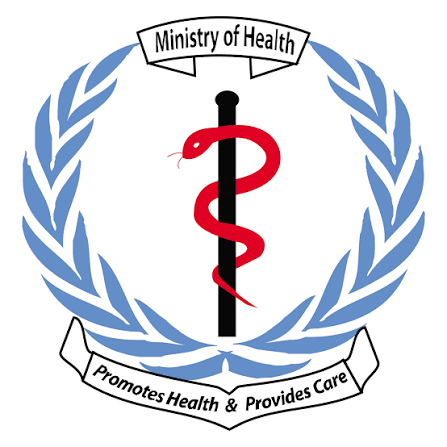
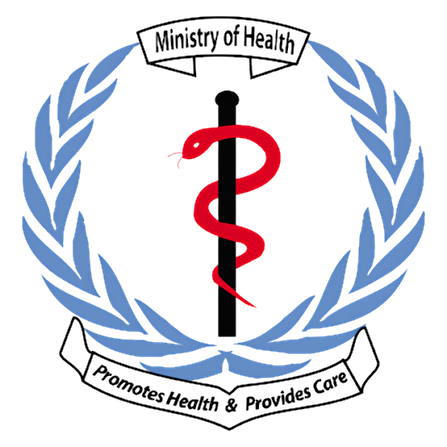
ssudan crest: use higher-res transparent-bg PNG, size 52px
New source PNG has proper alpha, so drop mix-blend-mode multiply and
bump the header mark from 44 to 52 so the wreath and banners are
legible next to the KP avatar.

diff --git a/src/BrainSentry.jsx b/src/BrainSentry.jsx
@@ -489,16 +489,16 @@ function HomeScreen({ onRunCheck, onOpenDashboard }) {
           <div style={{ fontSize: 15, fontWeight: 600, color: T.ink, lineHeight: 1.2 }}>Kee</div>
         </div>
         <button aria-label="South Sudan Ministry of Health" style={{
-          width: 46, height: 46, background: 'transparent', border: 'none',
+          width: 54, height: 54, background: 'transparent', border: 'none',
           padding: 0, cursor: 'pointer',
           display: 'flex', alignItems: 'center', justifyContent: 'center',
         }}>
           <img
             src="/ss-moh.png"
             alt="South Sudan Ministry of Health"
-            width={44}
-            height={44}
-            style={{ display: 'block', mixBlendMode: 'multiply' }}
+            width={52}
+            height={52}
+            style={{ display: 'block' }}
           />
         </button>
       </div>
